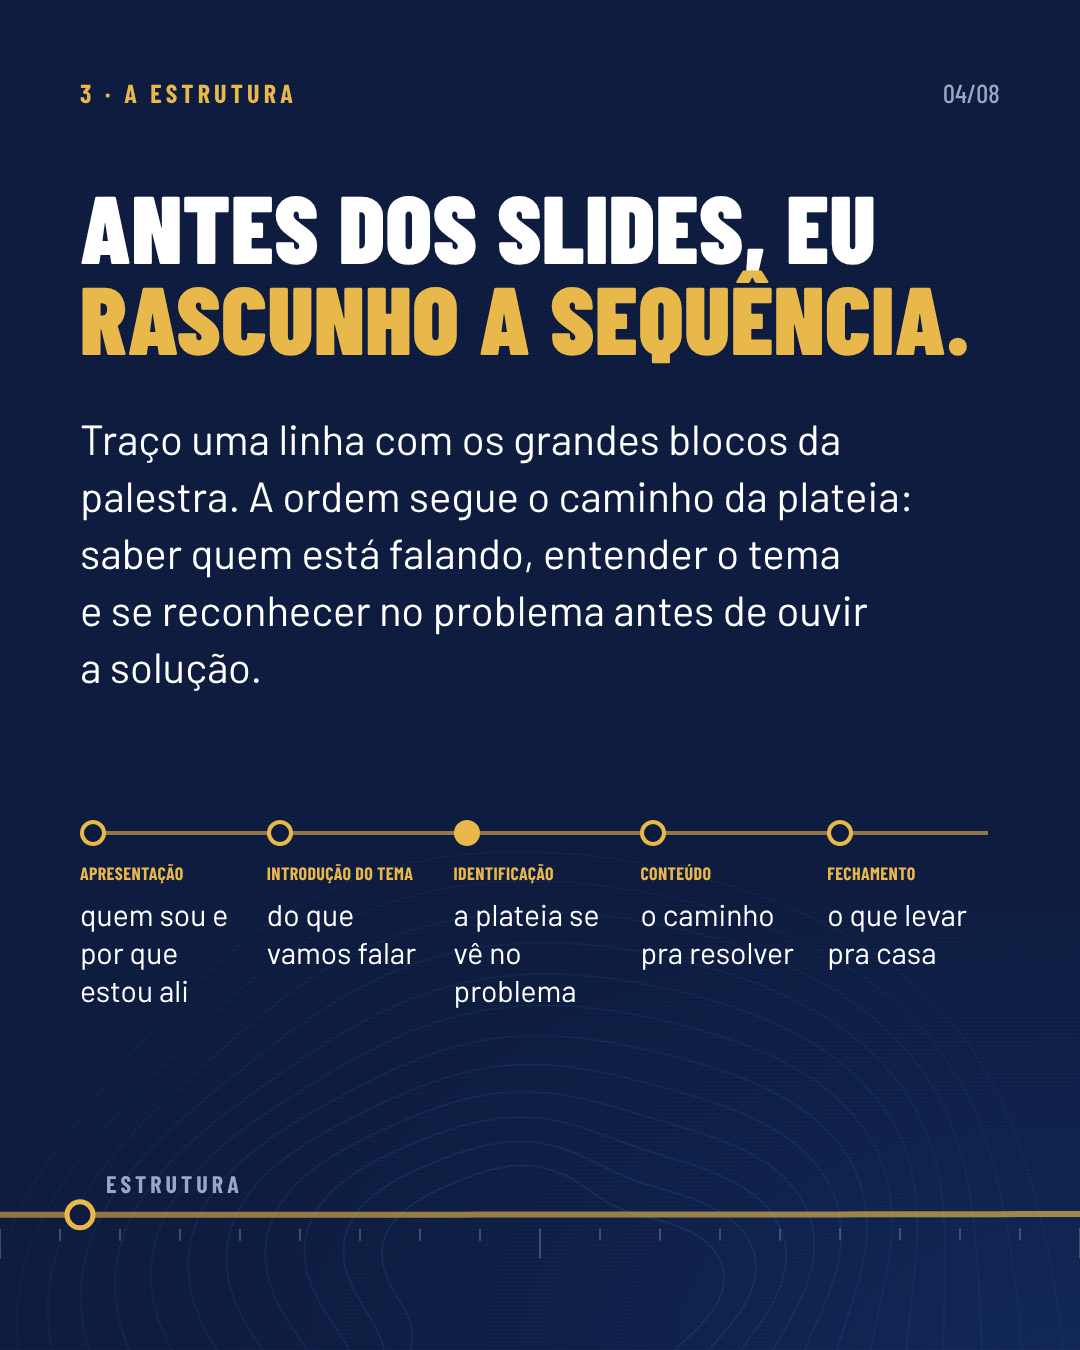
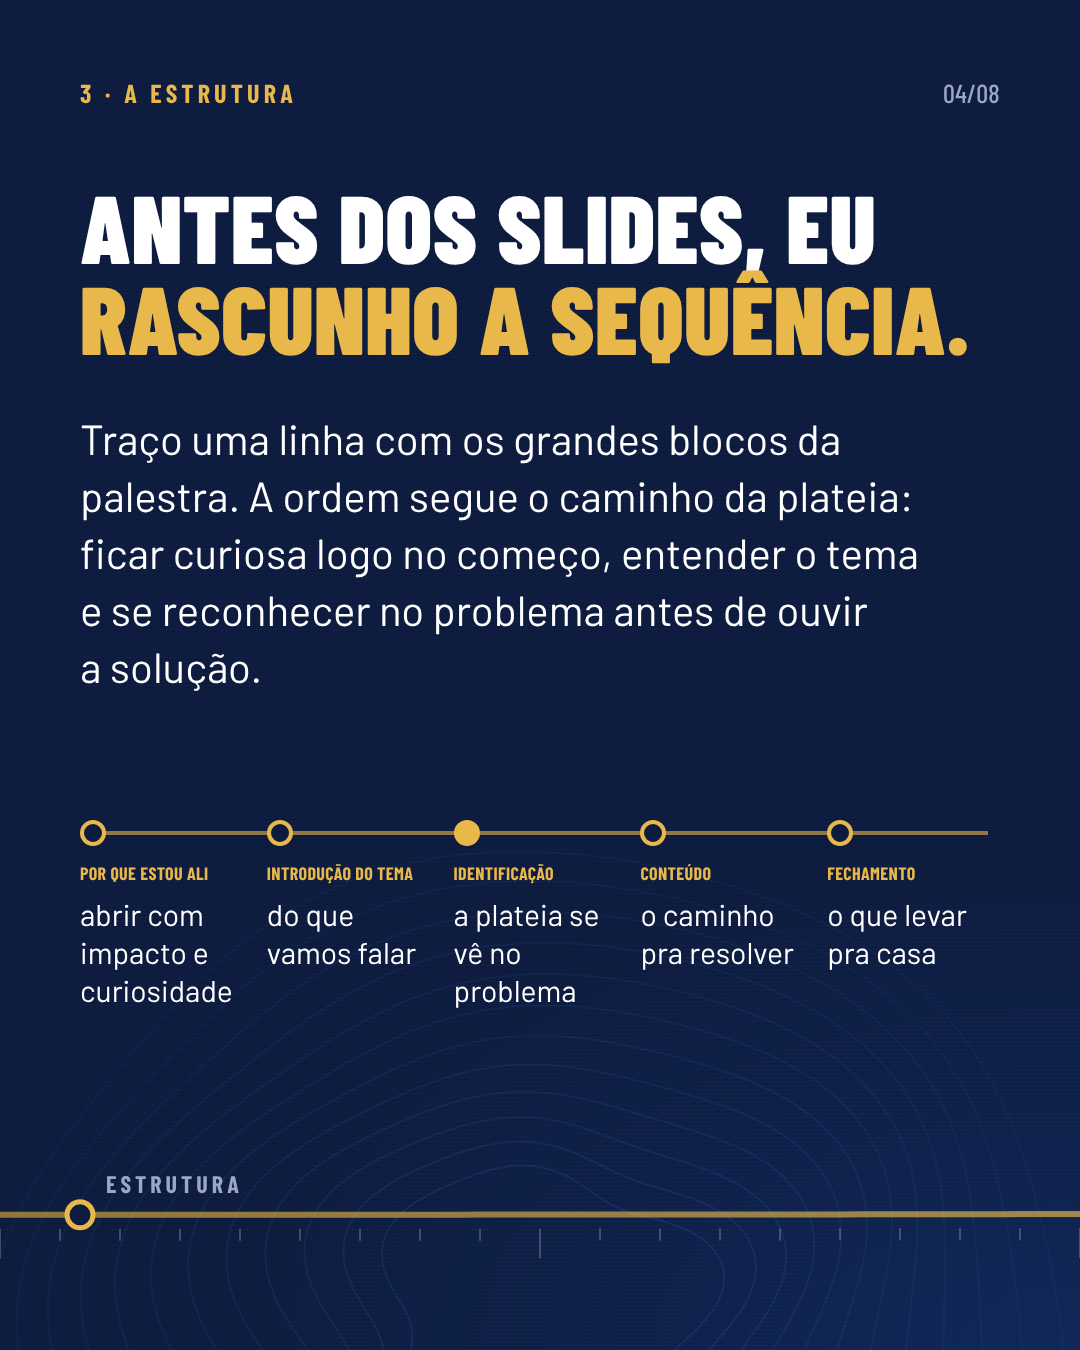
Slide 4: troca a autoapresentação por "por que estou ali"
Claude-Session: https://claude.ai/code/session_01KxJfMAnTDELMLnTQJRUUkL

Changed region(s): [[0.0611, 0.4044, 0.8556, 0.4356], [0.0611, 0.6222, 0.2139, 0.7467]]

diff --git a/carrosseis/bastidor-samuel/index.html b/carrosseis/bastidor-samuel/index.html
@@ -217,12 +217,12 @@ body.export #exportRoot{display:block;width:8640px;height:1350px}
     <div class="pg">04/08</div>
     <h2 class="hd" data-a="mask" data-d="150">Antes dos slides, eu <em>rascunho a sequência.</em></h2>
     <div class="txt" style="top:410px" data-a="up" data-d="500">
-      <p class="tx">Traço uma linha com os grandes blocos da palestra. A ordem segue o caminho da plateia: saber quem está falando, entender o tema e se reconhecer no problema antes de ouvir a solução.</p>
+      <p class="tx">Traço uma linha com os grandes blocos da palestra. A ordem segue o caminho da plateia: ficar curiosa logo no começo, entender o tema e se reconhecer no problema antes de ouvir a solução.</p>
     </div>
     <!-- a linha do rascunho -->
     <div class="flow" style="top:820px" data-a="up" data-d="800">
       <div class="flow-line" data-a="grow" data-d="900"></div>
-      <div class="st"><i></i><b>Apresentação</b><span>quem sou e por que estou ali</span></div>
+      <div class="st"><i></i><b>Por que estou ali</b><span>abrir com impacto e curiosidade</span></div>
       <div class="st"><i></i><b>Introdução do tema</b><span>do que vamos falar</span></div>
       <div class="st key"><i></i><b>Identificação</b><span>a plateia se vê no problema</span></div>
       <div class="st"><i></i><b>Conteúdo</b><span>o caminho pra resolver</span></div>
